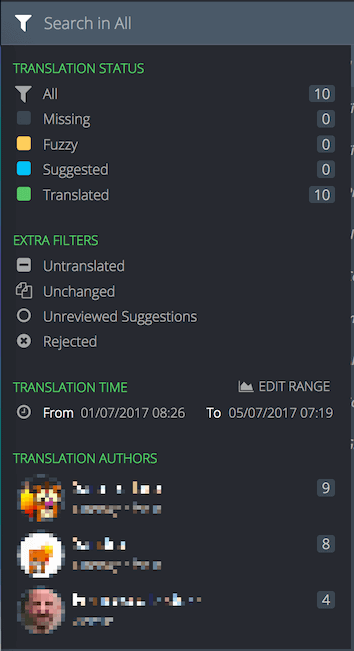
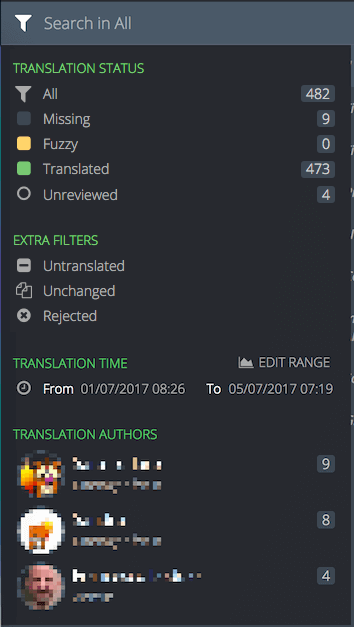
Update Search page

diff --git a/tools/pontoon/search_filters.md b/tools/pontoon/search_filters.md
@@ -7,19 +7,15 @@
 ### String status
 
 Strings in Pontoon can be filtered by their status. A string can be in one of the following status:
-* *Missing*: string is not available in the localized file and doesn’t have any translations or suggestions in Pontoon.
-* *Suggested*: at least one suggestion has been submitted for this string. Note that, in this case, the translation only exists within Pontoon database, it’s not saved to the localized file.
-* *Translated*: string has an approved translation.
+* *Missing*: string is not available in the localized file and doesn’t have any translations or pending suggestions in Pontoon.
 * *Fuzzy*: string is marked as [fuzzy](../../misc/glossary.md#fuzzy) in the localized file.
-
-Suggestions can be in two status:
-* *Unreviewed*: string has been suggested, but not approved or rejected.
+* *Translated*: string has an approved translation.
+* *Unreviewed*: string has been submitted – either to a string with an existing approved translation, or to a missing string – but not reviewed yet by translators. Note that, in both cases, the translation only exists within Pontoon database, it’s not saved to the localized file.
 * *Rejected*: string has been reviewed and rejected by a translator.
 
 There are some extra criteria that can be used to filter strings:
-* *Untranslated*: this will display strings that are either suggested, missing, or fuzzy. Basically, anything but translated. Once selected, you will also notice that those 3 filters are automatically checked.
+* *Untranslated*: this will display strings that are either missing – including those with unreviewed suggestions – or fuzzy. Basically, anything but translated. Once selected, you will also notice that those 2 filters are automatically checked.
 * *Unchanged*: string is identical to the reference language (normally en-US).
-* *Unreviewed suggestions*: this will display strings that have at least one unreviewed suggestion. Note that it will include strings in *suggested*, *fuzzy* and *translated* state, as long as they have unreviewed suggestions.
 * *Rejected*: show strings that have rejected suggestions.
 
 By clicking on the funnel icon on the left, it’s possible to access filters.
